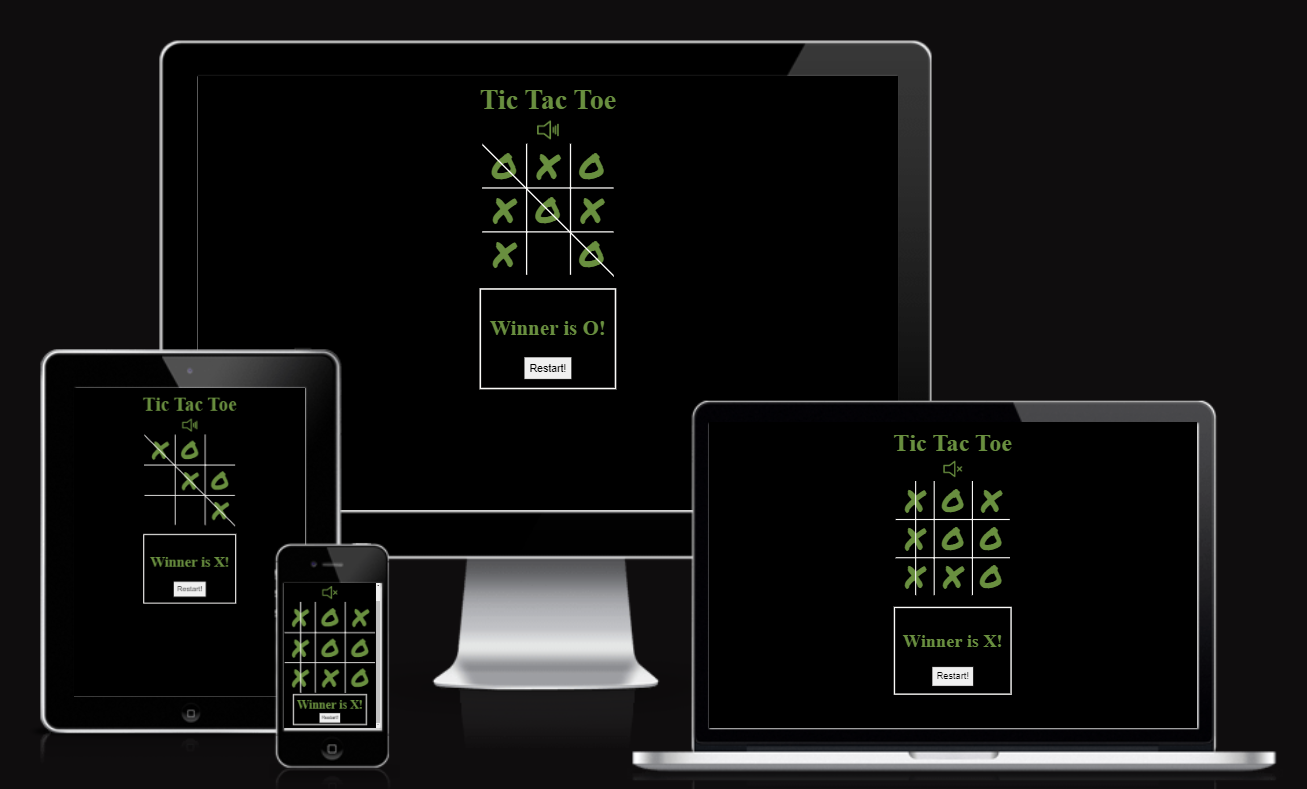
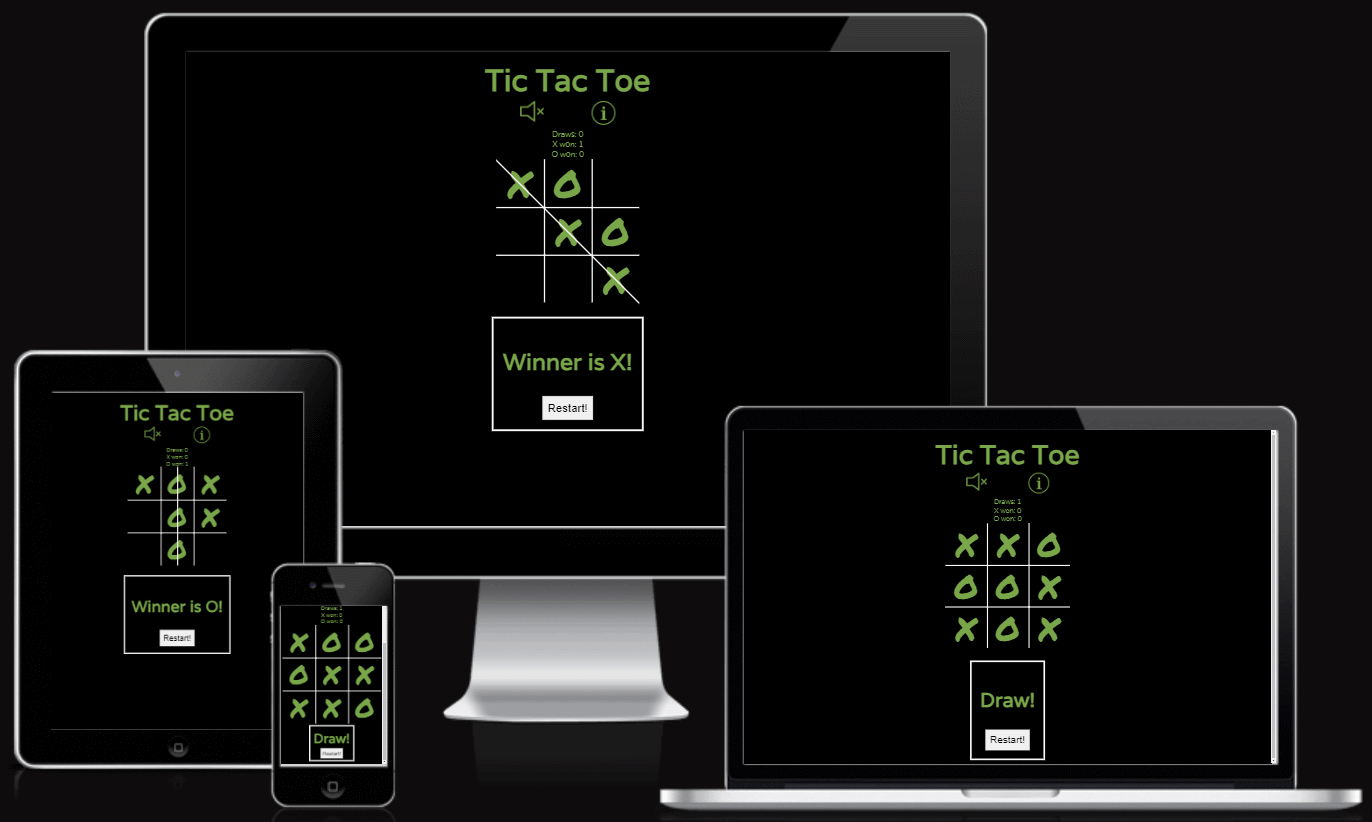
Update readme.md

Changed region(s): [[0.0, 0.0, 1.0, 1.0]]

diff --git a/index.html b/index.html
@@ -45,8 +45,6 @@
   <div id="game-score-x">X won: 0</div>
   <div id="game-score-o">O won: 0</div>
   
-  
-
   <!-- 3x3 grid for the gameBoard -->
   <div class="gameBoard" id="board">
     <div data-cell-index="1" class="cell right-border bottom-border"></div>

diff --git a/README.md b/README.md
@@ -1,6 +1,16 @@
 ![TicTacToe Favicon](assets/images/tic-tac-toe-white-100px.png)
 # Tic Tac Toe
 
+## Wireframes
+Wireframes were produced using Paint.net. 
+
+ <details>
+
+ <summary>Wireframe</summary>
+
+![Wireframe](.devcontainer/docs/images/Wireframe.png)
+ </details>
+
 This application is a simple game of Tic Tac Toe.  The application loads with the sound muted and has an unmute button to toggle the sound On/Off.  The sounds are played when a user places an X or an O in a cell on the gameBoard and when the game is over.  The sound is muted on initial load.
 
 An empty gameBoard is presented with 9 cells in a 3 x 3 grid.  The cursor becomes a pointer when placed over the Mute/Unmute button, the cells in the grid and the restart button when it is presented.  X always goes first.  When X places his mark, the turn is switched to O.
@@ -45,21 +55,9 @@ The colour scheme of the website are black, white and green with varying shades 
 ### Fonts
 The "Permanent Marker" font is the main font used for the mark of X or O.  This font was imported via [Google Fonts](https://fonts.google.com/). I'm used Cursive as a backup font, in case for any reason the main font isn't being imported into the site correctly.
 
-## Wireframes
-Wireframes were produced using Balsamiq. 
 
- <details>
 
- <summary>Desktop Wireframe</summary>
-
-![Desktop Wireframe](docs/wireframes/desktopwireframe.png)
- </details>
-
- <details>
-    <summary>Mobile Wireframe</summary>
-
-![Mobile Wireframe](docs/wireframes/mobilewireframe.png)
- </details>
+ 
 
 
 ## Features
@@ -82,7 +80,7 @@ On touch screen devices, (devices without a pointer), the X/O hover works by pre
 ### Validator Testing
 - #### HTML
     - No errors were returned when passing through the official W3C Markup Validator
-        - [W3C Validator Results](https://validator.w3.org/nu/?showsource=yes&showoutline=yes&showimagereport=yes&doc=https%3A%2F%2Fdmascoredeclan.github.io%2Ftic-tac-toe-js%2F)
+        - [W3C Validator Results](https://validator.w3.org/nu/?showsource=yes&doc=https%3A%2F%2Fdmascoredeclan.github.io%2Ftic-tac-toe-js%2F)
     - One Empty Heading Warning initially appeared.  I inserted a period that would be replaced by javascript innerText once the game has ended.  The period will be replaced by javascript generated resultText.
 - #### CSS
     - No errors were found when passing through the official W3C CSS Validator 
@@ -90,22 +88,24 @@ On touch screen devices, (devices without a pointer), the X/O hover works by pre
 - #### Accessibility 
     - The site achieved a Lighthouse accessibility score of 100% which confirms that the colours and fonts chosen are easy to read and accessible 
 
-    <details>
+   <details>
     <summary>Lighthouse Result</summary>
 
-    ![Lighthouse Score](.devcontainer\docs\images\lighthouse-score.png)
+    ![Lighthouse Score](.devcontainer/docs/images/lighthouse-score.png)
     </details>
 
 - #### Jshint 
-    <details>
+-- There is 1 warning: "Expected an assignment or function call and instead saw an expression." - the code works and produces no Warnings or Errors in the DOM Console.
+    
+-   <details>
     <summary>Jshint Result</summary>
 
-    ![Lighthouse Score](.devcontainer\docs\images\jshint-result.png)
+    ![Lighthouse Score](.devcontainer/docs/images/jshint-result.png)
     </details>
  
 ### Links Testing
-- All navigation links were tested manually to ensure the user is directed to the correct section of the website.
-- Social Media links in the footer of each page were tested manually to ensure they direct the user to the correct page and open in a new tab. 
+- The navigation link was tested manually to ensure the user is directed to the correct external wikipedia site.
+ 
 
 ### Browser Testing
 - The Website was tested on Google Chrome, Firefox, Microsoft Edge, Safari browsers with no issues noted.
@@ -116,22 +116,28 @@ On touch screen devices, (devices without a pointer), the X/O hover works by pre
     - [Responsinator](http://www.responsinator.com/?url=https%3A%2F%2Fdmascoredeclan.github.io%2Ftic-tac-toe-js%2F)
     - [Am I Responsive](http://ami.responsivedesign.is/?url=https%3A%2F%2Fdmascoredeclan.github.io%2Ftic-tac-toe-js%2F)
 
-https://dmascoredeclan.github.io/tic-tac-toe-js/
+
 
 ### Friends and Family User Testing
 Friends and family members were asked to review the site and documentation to point out any bugs and/or user experience issues. They tested on a variety of iPhones and Android devices.  The :hover::after css works but only if you know that you need to touch the screen for a milisecond longer than normal!
+On one users android device, the sound works for the first mark being placed and then doesn't work for the remaining moves.  The bug could not be replicated.
 
 ### Fixed Bugs
 #### Mute/Unmute image did not appear in the browser, despite the button element showing up
 - I was using the incorrect path and it took a long to to figure out but was fixed by changing the path to the images file by including "../" in the path.
+#### The Score Area did not work and produced console errors.  On github.io the game never revealed the score, the game never concluded despite being OVER!
+- This took a really long time to figure out because the error was caused by the deployment being out of sync with the code.  Git showed that the code I used had been commited to Git, but when I inspected the code in the browser, the code was a previous version of the code.  I rebuilt the deployment and the code updated in the browser and worked as expected.
 
 #### game does not look well on small devices when in landscape:
 
 [Stackoverflow fix](https://stackoverflow.com/questions/63374529/disable-landscape-view-for-a-responsive-design-website) - this didn't work!
 
 ### Known Bugs
--Touch screen devices make the etire gameBoard div, shimmer before displaying the hover effects.
--The game just doesn't appear well on small mobile devices in landscap mode.  Adjusting the size makes it almost impossible to play
+- Touch screen devices make the entire gameBoard div, shimmer before displaying the hover effects.
+- The game just doesn't appear well on small mobile devices in landscap mode.  Adjusting the size makes it almost impossible to play
+- The media queries are not refined enough to keep the game in portrait mode if the user rotates their device to landscape.  The rules work on [emulators](http://www.responsinator.com/?url=https%3A%2F%2Fdmascoredeclan.github.io%2Ftic-tac-toe-js%2F) but not on all of the physical devices I've tested on.  
+
+
 
 
 ## Technologies Used
@@ -144,7 +150,6 @@ Friends and family members were asked to review the site and documentation to po
 ### Frameworks - Libraries - Programs Used
 - [Am I Responsive](http://ami.responsivedesign.is/) - Used to verify responsiveness of website on different devices.
 - [Responsinator](http://www.responsinator.com/) - Used to verify responsiveness of website on different devices.
-- [Balsamiq](https://balsamiq.com/) - Used to generate Wireframe images.
 - [Chrome Dev Tools](https://developer.chrome.com/docs/devtools/) - Used for overall development and tweaking, including testing responsiveness and performance.
 - [GitHub](https://github.com/) - Used for version control and hosting.
 - [MyGitHub](https://github.com/DMASCoreDeclan/tic-tac-toe-js) - Used for version control and hosting of this project.
@@ -183,8 +188,8 @@ Mute/Unmute pngs which were recolored, renamed, restyled
  - [Kyle from Web Dev Simplified](https://www.youtube.com/watch?v=Y-GkMjUZsmM&t=939s) - index.html.old and script.js.old
  - [Ania Kubów](https://youtu.be/DRaWr0Dcbl0) - index.html.old and script.js.old
  - [Bro Code](https://youtu.be/AnmwHjpEhtA)
- - [Coding with Adam from](https://www.youtube.com/watch?v=fPew9OI2PnA&t=1906s)
- - [Adam Khoury](https://www.youtube.com/watch?v=hsSXzdn_0Gg) - how to toggleMute in JS
+ - [Coding with Adam](https://www.youtube.com/watch?v=fPew9OI2PnA&t=1906s)
+ - [Adam Khoury](https://www.youtube.com/watch?v=hsSXzdn_0Gg) - toggleMute in JS
  - [CSS-Tricks](https://css-tricks.com/snippets/css/orientation-lock/) - to prevent the screen rotating from portrait to landscape 
 
  - While some code just has to be the same, all Variable names, CSS names and Function names have been changed.  The design is fundamentally the same as Coding with Adam, with additional feature such as the Mute/Unmute Audio button.  The .wav sounds are downloaded from CodinWithAdma channel, but were renamed before upload and are called by different names in JS.
